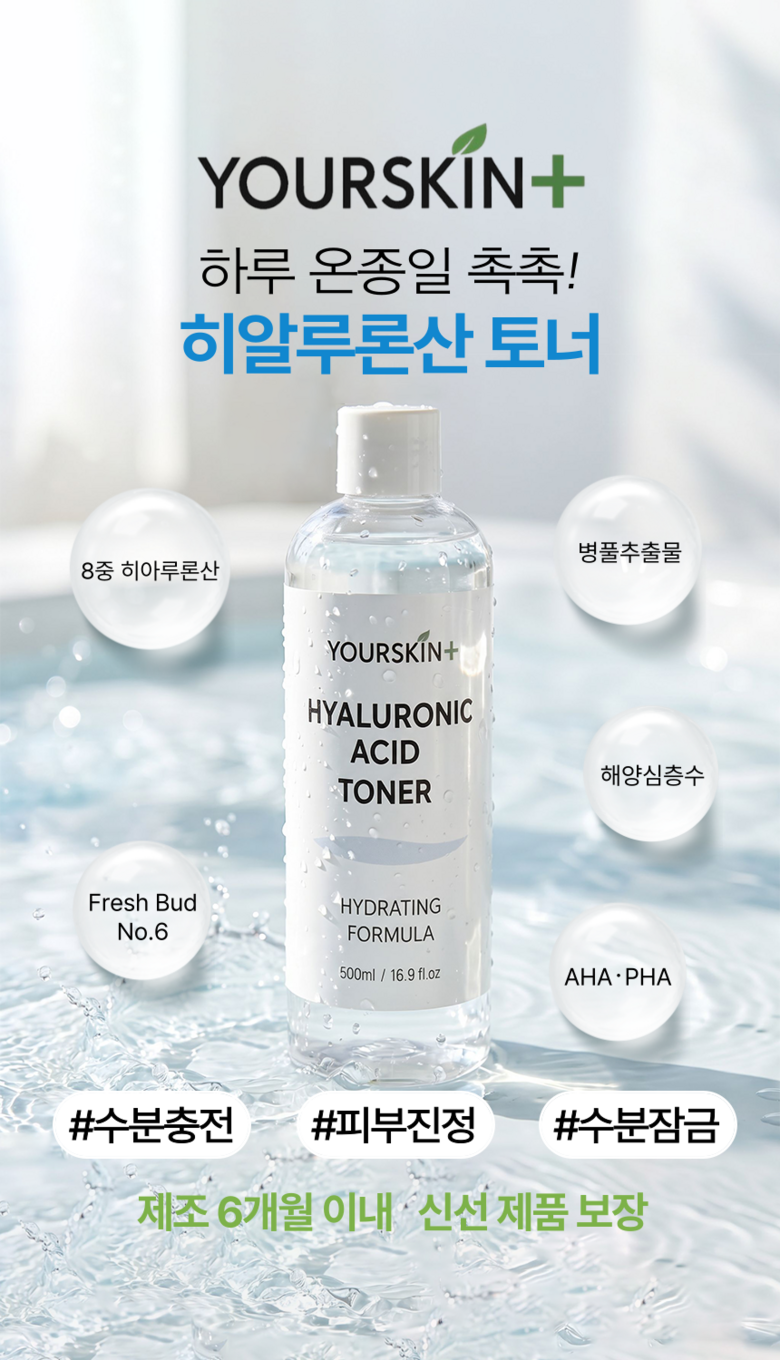
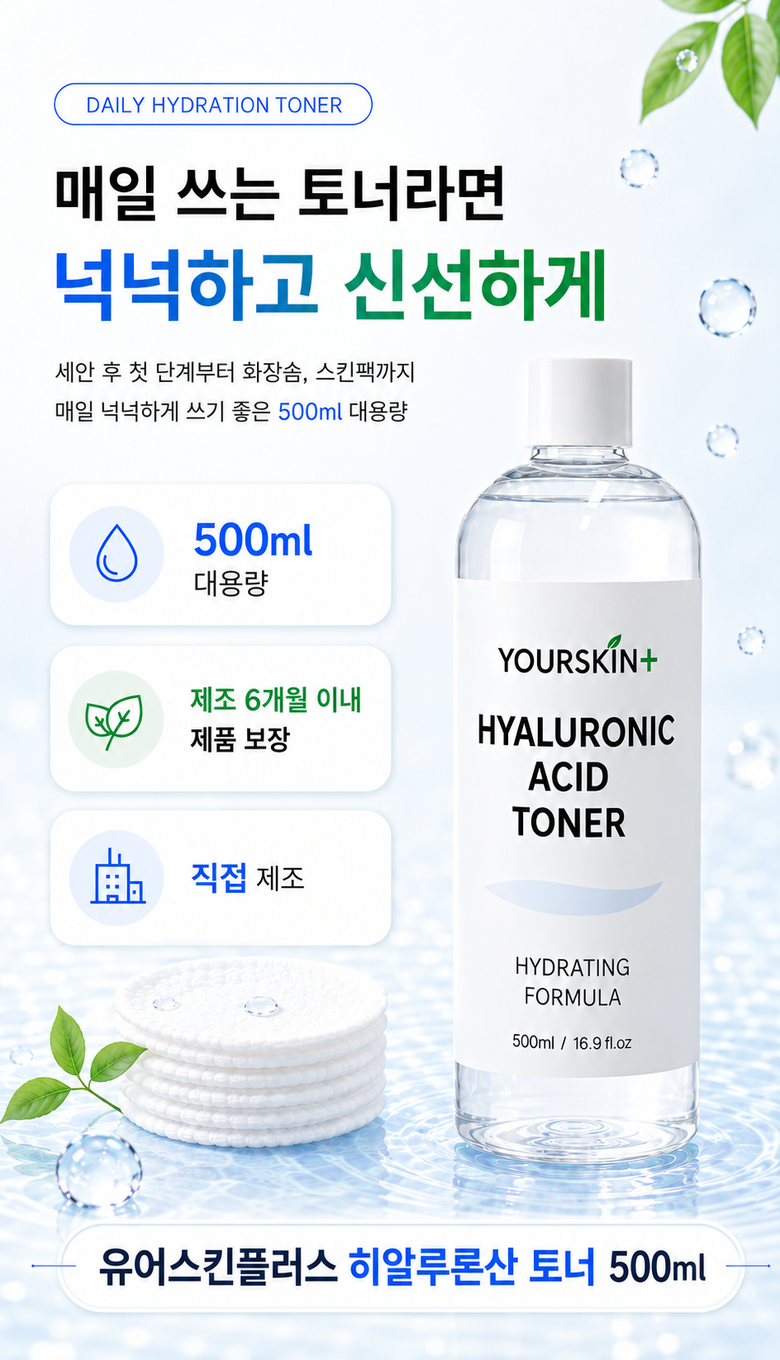
fix: apply toner v1 images to local site

diff --git a/src/data/marketingOps.ts b/src/data/marketingOps.ts
@@ -21,10 +21,10 @@ export const productOpsStatuses: ProductOpsStatus[] = [
     slug: 'hyaluronic-toner',
     priority: 'focus',
     campaignRole: '수분 루틴 진입 상품',
-    detailStatus: '쿠팡 현재본 대표 6장 + 상세 14컷 동기화 완료',
-    assetStatus: 'V1 대표 6장 + 상세 13컷 비교 검토 중',
+    detailStatus: 'V1 대표 6장 + 상세 13컷 사이트 현재 적용',
+    assetStatus: 'V1 사이트/쿠팡 현재 적용',
     claimRisk: 'medium',
-    nextAction: 'V1 상세 13컷 시트 확인 후 수정 컷 피드백 정리',
+    nextAction: '판매 페이지 캐시와 상세 컷 표시 상태 확인',
     workspaceUrl: '/marketing/hyaluronic-toner-version-compare/',
     salesNote: '최근 판매량 1위. 유입 상품으로 먼저 밀기 좋음',
   },
@@ -203,6 +203,27 @@ export type ProductVersion = {
 };
 
 export const productVersions: Record<string, ProductVersion[]> = {
+  'hyaluronic-toner': [
+    {
+      id: 'v1',
+      label: 'V1',
+      status: 'live',
+      date: '2026-06-07',
+      summary: '쿠팡 반영용 V1 정리본입니다. 대표 6장과 상세 13컷을 사이트 현재 적용 버전으로 사용합니다.',
+      mainImages: Array.from({ length: 6 }, (_, i) => '/coupang/images/hyaluronic-acid-toner/versions/v1/representative/' + String(i + 1).padStart(2, '0') + '.png'),
+      detailImages: Array.from({ length: 13 }, (_, i) => '/coupang/images/hyaluronic-acid-toner/versions/v1/detail/' + String(i + 1).padStart(2, '0') + '.png'),
+      links: [
+        { label: '토너 V1 비교 페이지 열기', href: '/marketing/hyaluronic-toner-version-compare/' },
+        { label: '첫 대표 이미지 열기', href: '/coupang/images/hyaluronic-acid-toner/versions/v1/representative/01.png' },
+        { label: '첫 상세 이미지 열기', href: '/coupang/images/hyaluronic-acid-toner/versions/v1/detail/01.png' },
+      ],
+      metrics: [
+        { label: '대표', value: '6' },
+        { label: '상세', value: '13' },
+        { label: '상태', value: 'V1' },
+      ],
+    },
+  ],
   'aqua-lotion': [
     {
       id: 'v4',
